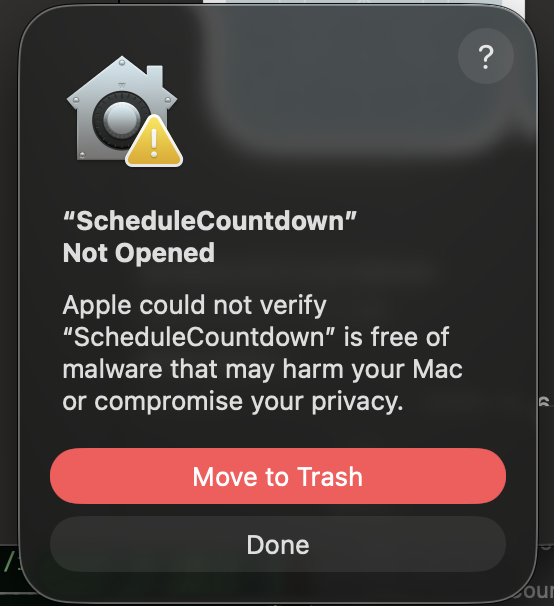
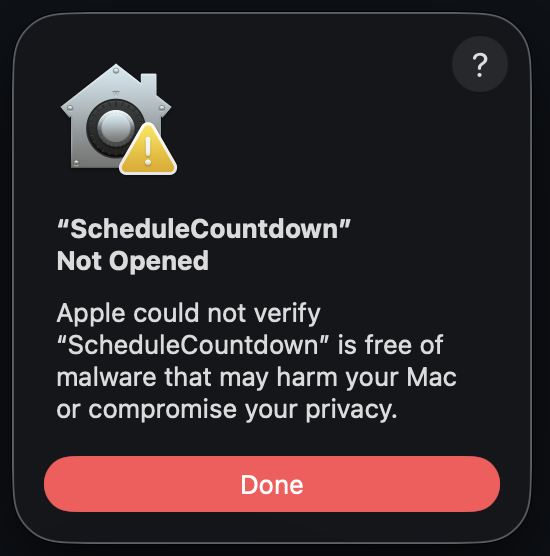
docs: show the gatekeeper dialog students see from the dmg

diff --git a/README.md b/README.md
@@ -14,7 +14,7 @@ A menu bar app for Klein High that counts down to the next bell. It knows the no
 
    <img src="docs/images/not-opened.png" width="240" alt="“ScheduleCountdown” Not Opened: Apple could not verify it is free of malware">
 
-   That's expected. macOS shows this for any app whose developer doesn't pay Apple $99 a year for a signing certificate; it doesn't mean anything was found. Click **Done**, not Move to Trash.
+   That's expected. macOS shows this for any app whose developer doesn't pay Apple $99 a year for a signing certificate; it doesn't mean anything was found. Click **Done** (if there's also a Move to Trash button, don't click that one).
 4. Open **System Settings → Privacy & Security**, scroll down to **Security**, and click **Open Anyway** next to “ScheduleCountdown” was blocked. If macOS asks again, click **Open Anyway** and enter your Mac password or use Touch ID.
 
    <img src="docs/images/open-anyway.png" width="600" alt="Privacy & Security settings with the Open Anyway button for ScheduleCountdown">
